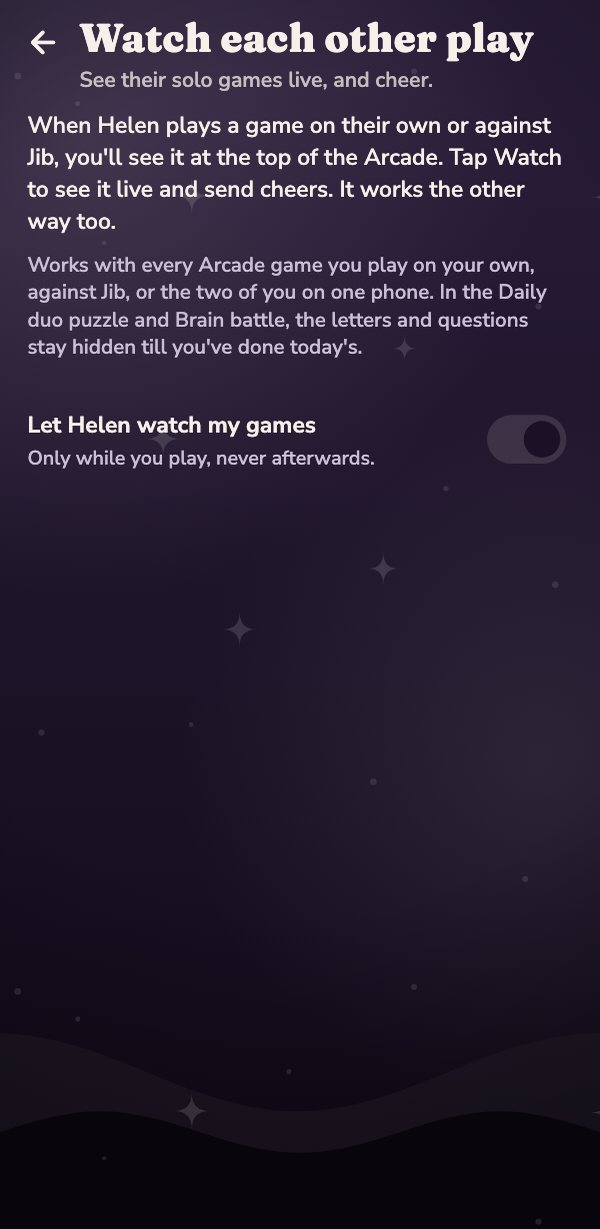
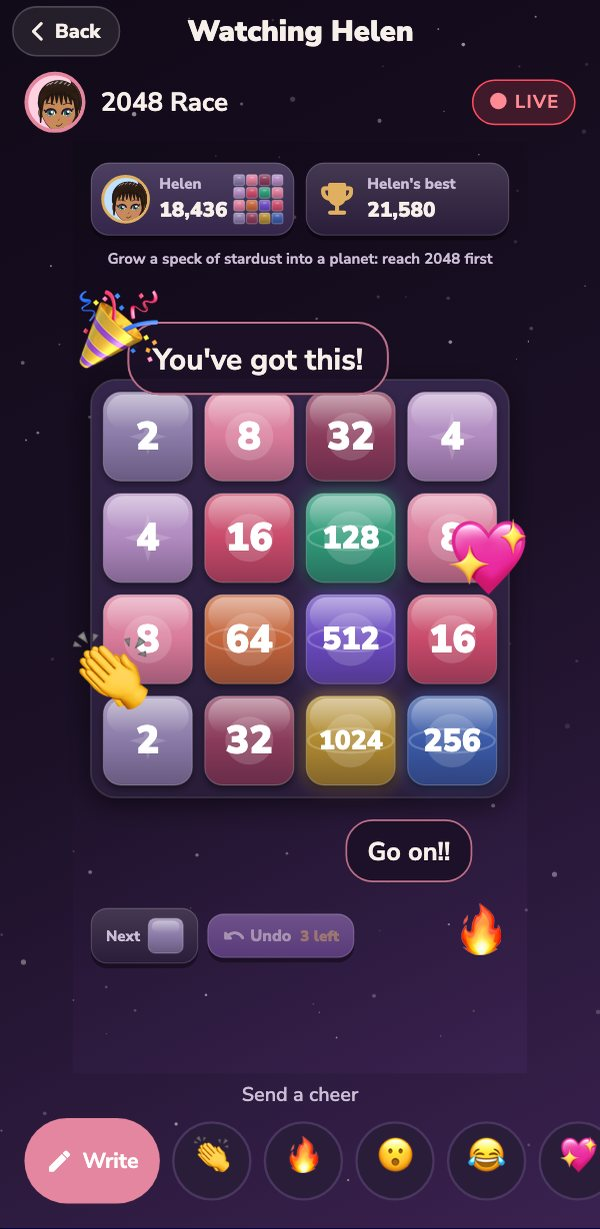
Watch story: Helen's 2048 live with your cheers and words floating up (every language)

diff --git a/th/index.html b/th/index.html
@@ -158,7 +158,7 @@
           <img data-shot="avatar" src="../img/avatar.jpg?v=20261025" alt="">
           <img data-shot="store" src="../img/store.jpg?v=20261025" alt="">
           <img data-shot="arcade" src="../img/arcade.jpg?v=20261025" alt="">
-          <img data-shot="watch" src="../img/watch.jpg?v=20261025" alt="">
+          <img data-shot="watch" src="../img/watch.jpg?v=20261111" alt="">
           <img data-shot="rivalry" src="../img/rivalry.jpg?v=20261026" alt="">
           <img data-shot="school" src="../img/school.jpg?v=20261111" alt="">
           <img data-shot="slowmail" src="../img/slow_mail.jpg?v=20261025" alt="">
@@ -212,7 +212,7 @@
           <span class="tag">ดูกันเล่นเกม</span>
           <h3>เชียร์จากอีกซีกโลก</h3>
           <p>เมื่อแฟนเล่นอยู่คนเดียว จะมีแบนเนอร์เล็กๆ บอกคุณ แตะ ดู เพื่อติดตามทุกการเคลื่อนไหวแบบสด และส่งเสียงเชียร์ที่จะเด้งขึ้นบนจอของแฟน</p>
-          <img class="inline" src="../img/watch.jpg?v=20261025" alt="ดูแฟนเล่นหมากรุกแบบสด พร้อมเสียงเชียร์ให้ส่ง" loading="lazy" width="600" height="1229">
+          <img class="inline" src="../img/watch.jpg?v=20261111" alt="ดูแฟนเล่นเกมแบบสด แล้วส่งเสียงเชียร์ที่ลอยขึ้นไป" loading="lazy" width="600" height="1229">
         </article>
         <article class="story" data-shot="rivalry">
           <span class="tag">การประชัน</span>

diff --git a/ru/index.html b/ru/index.html
@@ -158,7 +158,7 @@
           <img data-shot="avatar" src="../img/avatar.jpg?v=20261025" alt="">
           <img data-shot="store" src="../img/store.jpg?v=20261025" alt="">
           <img data-shot="arcade" src="../img/arcade.jpg?v=20261025" alt="">
-          <img data-shot="watch" src="../img/watch.jpg?v=20261025" alt="">
+          <img data-shot="watch" src="../img/watch.jpg?v=20261111" alt="">
           <img data-shot="rivalry" src="../img/rivalry.jpg?v=20261026" alt="">
           <img data-shot="school" src="../img/school.jpg?v=20261111" alt="">
           <img data-shot="slowmail" src="../img/slow_mail.jpg?v=20261025" alt="">
@@ -212,7 +212,7 @@
           <span class="tag">Смотрите, как играет другой</span>
           <h3>Болей с другого конца света</h3>
           <p>Когда твоя половинка играет одна, об этом сообщит маленький баннер. Нажми «Смотреть», чтобы следить за каждым ходом вживую, и отправь поддержку, которая всплывёт у неё на экране.</p>
-          <img class="inline" src="../img/watch.jpg?v=20261025" alt="Твоя половинка играет в шахматы, а ты смотришь вживую и отправляешь поддержку" loading="lazy" width="600" height="1229">
+          <img class="inline" src="../img/watch.jpg?v=20261111" alt="Смотришь вживую, как играет твоя половинка, и отправляешь поддержку, которая всплывает вверх" loading="lazy" width="600" height="1229">
         </article>
         <article class="story" data-shot="rivalry">
           <span class="tag">Соперничество</span>

diff --git a/uk/index.html b/uk/index.html
@@ -158,7 +158,7 @@
           <img data-shot="avatar" src="../img/avatar.jpg?v=20261025" alt="">
           <img data-shot="store" src="../img/store.jpg?v=20261025" alt="">
           <img data-shot="arcade" src="../img/arcade.jpg?v=20261025" alt="">
-          <img data-shot="watch" src="../img/watch.jpg?v=20261025" alt="">
+          <img data-shot="watch" src="../img/watch.jpg?v=20261111" alt="">
           <img data-shot="rivalry" src="../img/rivalry.jpg?v=20261026" alt="">
           <img data-shot="school" src="../img/school.jpg?v=20261111" alt="">
           <img data-shot="slowmail" src="../img/slow_mail.jpg?v=20261025" alt="">
@@ -212,7 +212,7 @@
           <span class="tag">Дивіться, як грає інший</span>
           <h3>Уболівай з іншого кінця світу</h3>
           <p>Коли твоя половинка грає сама, про це повідомить маленький банер. Натисни «Дивитися», щоб стежити за кожним ходом наживо, і надішли підтримку, яка з’явиться в неї на екрані.</p>
-          <img class="inline" src="../img/watch.jpg?v=20261025" alt="Твоя половинка грає в шахи, а ти дивишся наживо й надсилаєш підтримку" loading="lazy" width="600" height="1229">
+          <img class="inline" src="../img/watch.jpg?v=20261111" alt="Дивишся наживо, як грає твоя половинка, і надсилаєш підтримку, що спливає вгору" loading="lazy" width="600" height="1229">
         </article>
         <article class="story" data-shot="rivalry">
           <span class="tag">Суперництво</span>

diff --git a/ar/index.html b/ar/index.html
@@ -158,7 +158,7 @@
           <img data-shot="avatar" src="../img/avatar.jpg?v=20261025" alt="">
           <img data-shot="store" src="../img/store.jpg?v=20261025" alt="">
           <img data-shot="arcade" src="../img/arcade.jpg?v=20261025" alt="">
-          <img data-shot="watch" src="../img/watch.jpg?v=20261025" alt="">
+          <img data-shot="watch" src="../img/watch.jpg?v=20261111" alt="">
           <img data-shot="rivalry" src="../img/rivalry.jpg?v=20261026" alt="">
           <img data-shot="school" src="../img/school.jpg?v=20261111" alt="">
           <img data-shot="slowmail" src="../img/slow_mail.jpg?v=20261025" alt="">
@@ -212,7 +212,7 @@
           <span class="tag">شاهدا لعب بعضكما</span>
           <h3>شجّع من الطرف الآخر من العالم</h3>
           <p>حين يلعب شريكك وحده، يخبرك شريط صغير بذلك. اضغط «مشاهدة» لتتابع كل حركة مباشرة، وأرسل هتاف تشجيع يظهر على شاشته.</p>
-          <img class="inline" src="../img/watch.jpg?v=20261025" alt="مشاهدة مباراة شطرنج شريكك مباشرة، مع هتافات تشجيع ترسلها" loading="lazy" width="600" height="1229">
+          <img class="inline" src="../img/watch.jpg?v=20261111" alt="مشاهدة شريكك وهو يلعب مباشرة وإرسال هتافات تطفو للأعلى" loading="lazy" width="600" height="1229">
         </article>
         <article class="story" data-shot="rivalry">
           <span class="tag">المنافسة</span>

diff --git a/ja/index.html b/ja/index.html
@@ -158,7 +158,7 @@
           <img data-shot="avatar" src="../img/avatar.jpg?v=20261025" alt="">
           <img data-shot="store" src="../img/store.jpg?v=20261025" alt="">
           <img data-shot="arcade" src="../img/arcade.jpg?v=20261025" alt="">
-          <img data-shot="watch" src="../img/watch.jpg?v=20261025" alt="">
+          <img data-shot="watch" src="../img/watch.jpg?v=20261111" alt="">
           <img data-shot="rivalry" src="../img/rivalry.jpg?v=20261026" alt="">
           <img data-shot="school" src="../img/school.jpg?v=20261111" alt="">
           <img data-shot="slowmail" src="../img/slow_mail.jpg?v=20261025" alt="">
@@ -212,7 +212,7 @@
           <span class="tag">お互いのプレイを観戦</span>
           <h3>世界の反対側から応援しよう</h3>
           <p>相手がひとりでプレイしていると、小さなバナーでお知らせ。「観戦」をタップすれば一手一手をライブで追いかけられて、相手の画面にポンと出る応援も送れます。</p>
-          <img class="inline" src="../img/watch.jpg?v=20261025" alt="パートナーのチェスをライブで観戦中。送れる応援つき" loading="lazy" width="600" height="1229">
+          <img class="inline" src="../img/watch.jpg?v=20261111" alt="パートナーのプレイをライブで観戦。送った応援がふわっと浮かぶ" loading="lazy" width="600" height="1229">
         </article>
         <article class="story" data-shot="rivalry">
           <span class="tag">ライバル対決</span>

diff --git a/ko/index.html b/ko/index.html
@@ -158,7 +158,7 @@
           <img data-shot="avatar" src="../img/avatar.jpg?v=20261025" alt="">
           <img data-shot="store" src="../img/store.jpg?v=20261025" alt="">
           <img data-shot="arcade" src="../img/arcade.jpg?v=20261025" alt="">
-          <img data-shot="watch" src="../img/watch.jpg?v=20261025" alt="">
+          <img data-shot="watch" src="../img/watch.jpg?v=20261111" alt="">
           <img data-shot="rivalry" src="../img/rivalry.jpg?v=20261026" alt="">
           <img data-shot="school" src="../img/school.jpg?v=20261111" alt="">
           <img data-shot="slowmail" src="../img/slow_mail.jpg?v=20261025" alt="">
@@ -212,7 +212,7 @@
           <span class="tag">서로의 플레이를 관전해요</span>
           <h3>지구 반대편에서도 응원해요</h3>
           <p>상대가 혼자 게임을 하고 있으면 작은 배너로 알려 줘요. 관전을 누르면 한 수 한 수를 실시간으로 따라가고, 상대 화면에 짠 하고 뜨는 응원도 보낼 수 있어요.</p>
-          <img class="inline" src="../img/watch.jpg?v=20261025" alt="상대의 체스 게임을 실시간으로 보면서 응원을 보내는 화면" loading="lazy" width="600" height="1229">
+          <img class="inline" src="../img/watch.jpg?v=20261111" alt="상대가 게임하는 모습을 실시간으로 보며 떠오르는 응원을 보내는 화면" loading="lazy" width="600" height="1229">
         </article>
         <article class="story" data-shot="rivalry">
           <span class="tag">라이벌전</span>

diff --git a/vi/index.html b/vi/index.html
@@ -158,7 +158,7 @@
           <img data-shot="avatar" src="../img/avatar.jpg?v=20261025" alt="">
           <img data-shot="store" src="../img/store.jpg?v=20261025" alt="">
           <img data-shot="arcade" src="../img/arcade.jpg?v=20261025" alt="">
-          <img data-shot="watch" src="../img/watch.jpg?v=20261025" alt="">
+          <img data-shot="watch" src="../img/watch.jpg?v=20261111" alt="">
           <img data-shot="rivalry" src="../img/rivalry.jpg?v=20261026" alt="">
           <img data-shot="school" src="../img/school.jpg?v=20261111" alt="">
           <img data-shot="slowmail" src="../img/slow_mail.jpg?v=20261025" alt="">
@@ -212,7 +212,7 @@
           <span class="tag">Xem nhau chơi</span>
           <h3>Cổ vũ từ bên kia thế giới</h3>
           <p>Khi người ấy chơi một mình, một biểu ngữ nhỏ sẽ báo cho bạn. Chạm Xem để theo dõi từng nước đi trực tiếp, và gửi một lời cổ vũ hiện lên trên màn hình của người ấy.</p>
-          <img class="inline" src="../img/watch.jpg?v=20261025" alt="Xem người ấy chơi cờ vua trực tiếp, kèm những lời cổ vũ để gửi" loading="lazy" width="600" height="1229">
+          <img class="inline" src="../img/watch.jpg?v=20261111" alt="Xem người ấy chơi trực tiếp và gửi những lời cổ vũ bay lên" loading="lazy" width="600" height="1229">
         </article>
         <article class="story" data-shot="rivalry">
           <span class="tag">Kình địch</span>

diff --git a/pl/index.html b/pl/index.html
@@ -158,7 +158,7 @@
           <img data-shot="avatar" src="../img/avatar.jpg?v=20261025" alt="">
           <img data-shot="store" src="../img/store.jpg?v=20261025" alt="">
           <img data-shot="arcade" src="../img/arcade.jpg?v=20261025" alt="">
-          <img data-shot="watch" src="../img/watch.jpg?v=20261025" alt="">
+          <img data-shot="watch" src="../img/watch.jpg?v=20261111" alt="">
           <img data-shot="rivalry" src="../img/rivalry.jpg?v=20261026" alt="">
           <img data-shot="school" src="../img/school.jpg?v=20261111" alt="">
           <img data-shot="slowmail" src="../img/slow_mail.jpg?v=20261025" alt="">
@@ -212,7 +212,7 @@
           <span class="tag">Oglądajcie, jak gra druga strona</span>
           <h3>Kibicuj z drugiego końca świata</h3>
           <p>Kiedy twoja druga połówka gra sama, powie ci o tym mały baner. Stuknij „Oglądaj”, żeby śledzić każdy ruch na żywo, i wyślij doping, który wyskoczy na jej ekranie.</p>
-          <img class="inline" src="../img/watch.jpg?v=20261025" alt="Twoja druga połówka gra w szachy, a ty oglądasz na żywo i wysyłasz doping" loading="lazy" width="600" height="1229">
+          <img class="inline" src="../img/watch.jpg?v=20261111" alt="Oglądasz na żywo, jak twoja druga połówka gra, i wysyłasz doping, który unosi się w górę" loading="lazy" width="600" height="1229">
         </article>
         <article class="story" data-shot="rivalry">
           <span class="tag">Rywalizacja</span>

diff --git a/fr/index.html b/fr/index.html
@@ -158,7 +158,7 @@
           <img data-shot="avatar" src="../img/avatar.jpg?v=20261025" alt="">
           <img data-shot="store" src="../img/store.jpg?v=20261025" alt="">
           <img data-shot="arcade" src="../img/arcade.jpg?v=20261025" alt="">
-          <img data-shot="watch" src="../img/watch.jpg?v=20261025" alt="">
+          <img data-shot="watch" src="../img/watch.jpg?v=20261111" alt="">
           <img data-shot="rivalry" src="../img/rivalry.jpg?v=20261026" alt="">
           <img data-shot="school" src="../img/school.jpg?v=20261111" alt="">
           <img data-shot="slowmail" src="../img/slow_mail.jpg?v=20261025" alt="">
@@ -212,7 +212,7 @@
           <span class="tag">Regarder l'autre jouer</span>
           <h3>Encourager depuis l'autre bout du monde</h3>
           <p>Quand l'autre joue en solo, une petite bannière te prévient. Touche Regarder pour suivre chaque coup en direct, et envoie un encouragement qui s'affiche sur son écran.</p>
-          <img class="inline" src="../img/watch.jpg?v=20261025" alt="Regarder ton/ta partenaire jouer aux échecs en direct, avec des encouragements à envoyer" loading="lazy" width="600" height="1229">
+          <img class="inline" src="../img/watch.jpg?v=20261111" alt="Regarder ton/ta partenaire jouer en direct et envoyer des encouragements qui s’envolent" loading="lazy" width="600" height="1229">
         </article>
         <article class="story" data-shot="rivalry">
           <span class="tag">La rivalité</span>

diff --git a/de/index.html b/de/index.html
@@ -158,7 +158,7 @@
           <img data-shot="avatar" src="../img/avatar.jpg?v=20261025" alt="">
           <img data-shot="store" src="../img/store.jpg?v=20261025" alt="">
           <img data-shot="arcade" src="../img/arcade.jpg?v=20261025" alt="">
-          <img data-shot="watch" src="../img/watch.jpg?v=20261025" alt="">
+          <img data-shot="watch" src="../img/watch.jpg?v=20261111" alt="">
           <img data-shot="rivalry" src="../img/rivalry.jpg?v=20261026" alt="">
           <img data-shot="school" src="../img/school.jpg?v=20261111" alt="">
           <img data-shot="slowmail" src="../img/slow_mail.jpg?v=20261025" alt="">
@@ -212,7 +212,7 @@
           <span class="tag">Beim Spielen zuschauen</span>
           <h3>Anfeuern vom anderen Ende der Welt</h3>
           <p>Wenn dein Schatz allein spielt, sagt dir ein kleines Banner Bescheid. Tipp auf Zuschauen, um jeden Zug live zu verfolgen, und schick eine Anfeuerung, die auf dem anderen Bildschirm aufploppt.</p>
-          <img class="inline" src="../img/watch.jpg?v=20261025" alt="Deinem Schatz live beim Schach zuschauen, mit Anfeuerungen zum Verschicken" loading="lazy" width="600" height="1229">
+          <img class="inline" src="../img/watch.jpg?v=20261111" alt="Deinem Schatz live beim Spielen zuschauen und Anfeuerungen hochschweben lassen" loading="lazy" width="600" height="1229">
         </article>
         <article class="story" data-shot="rivalry">
           <span class="tag">Die Rivalität</span>

diff --git a/nl/index.html b/nl/index.html
@@ -158,7 +158,7 @@
           <img data-shot="avatar" src="../img/avatar.jpg?v=20261025" alt="">
           <img data-shot="store" src="../img/store.jpg?v=20261025" alt="">
           <img data-shot="arcade" src="../img/arcade.jpg?v=20261025" alt="">
-          <img data-shot="watch" src="../img/watch.jpg?v=20261025" alt="">
+          <img data-shot="watch" src="../img/watch.jpg?v=20261111" alt="">
           <img data-shot="rivalry" src="../img/rivalry.jpg?v=20261026" alt="">
           <img data-shot="school" src="../img/school.jpg?v=20261111" alt="">
           <img data-shot="slowmail" src="../img/slow_mail.jpg?v=20261025" alt="">
@@ -212,7 +212,7 @@
           <span class="tag">Kijk mee als de ander speelt</span>
           <h3>Juich vanaf de andere kant van de wereld</h3>
           <p>Als je lief in z'n eentje speelt, laat een kleine banner het je weten. Tik op Kijken om elke zet live te volgen en stuur een aanmoediging die op het andere scherm verschijnt.</p>
-          <img class="inline" src="../img/watch.jpg?v=20261025" alt="Live meekijken terwijl je lief schaakt, met aanmoedigingen om te sturen" loading="lazy" width="600" height="1229">
+          <img class="inline" src="../img/watch.jpg?v=20261111" alt="Live meekijken terwijl je lief speelt en aanmoedigingen sturen die omhoog zweven" loading="lazy" width="600" height="1229">
         </article>
         <article class="story" data-shot="rivalry">
           <span class="tag">De rivaliteit</span>

diff --git a/id/index.html b/id/index.html
@@ -158,7 +158,7 @@
           <img data-shot="avatar" src="../img/avatar.jpg?v=20261025" alt="">
           <img data-shot="store" src="../img/store.jpg?v=20261025" alt="">
           <img data-shot="arcade" src="../img/arcade.jpg?v=20261025" alt="">
-          <img data-shot="watch" src="../img/watch.jpg?v=20261025" alt="">
+          <img data-shot="watch" src="../img/watch.jpg?v=20261111" alt="">
           <img data-shot="rivalry" src="../img/rivalry.jpg?v=20261026" alt="">
           <img data-shot="school" src="../img/school.jpg?v=20261111" alt="">
           <img data-shot="slowmail" src="../img/slow_mail.jpg?v=20261025" alt="">
@@ -212,7 +212,7 @@
           <span class="tag">Saling menonton saat bermain</span>
           <h3>Bersorak dari belahan dunia lain</h3>
           <p>Saat dia bermain sendiri, sebuah spanduk kecil memberitahumu. Ketuk Tonton untuk mengikuti setiap langkah secara langsung, dan kirim sorakan yang muncul di layarnya.</p>
-          <img class="inline" src="../img/watch.jpg?v=20261025" alt="Menonton pasanganmu main catur secara langsung, dengan sorakan yang bisa dikirim" loading="lazy" width="600" height="1229">
+          <img class="inline" src="../img/watch.jpg?v=20261111" alt="Menonton pasanganmu main secara langsung dan mengirim sorakan yang melayang naik" loading="lazy" width="600" height="1229">
         </article>
         <article class="story" data-shot="rivalry">
           <span class="tag">Persaingan</span>
